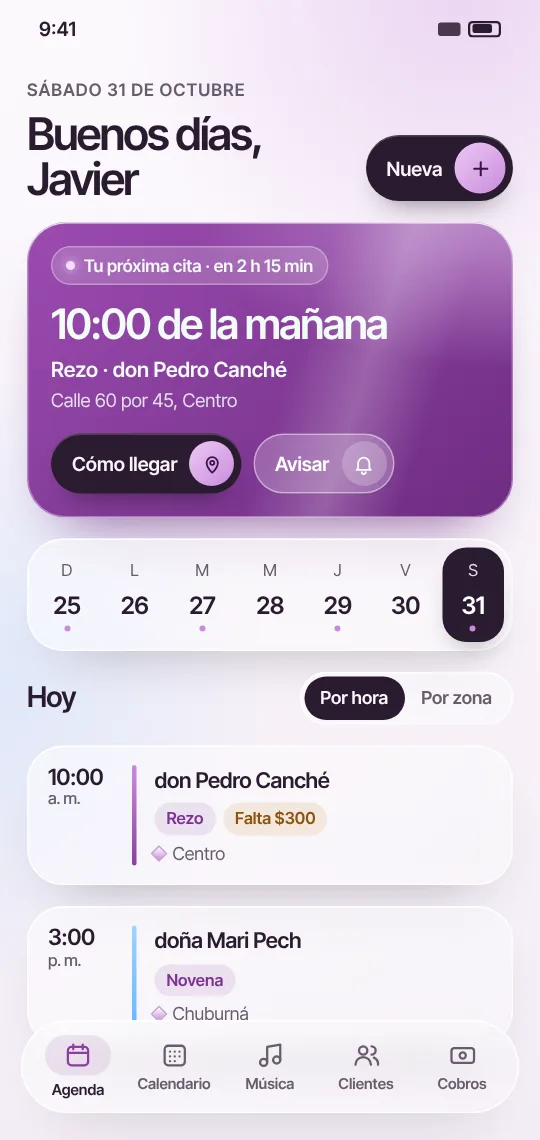
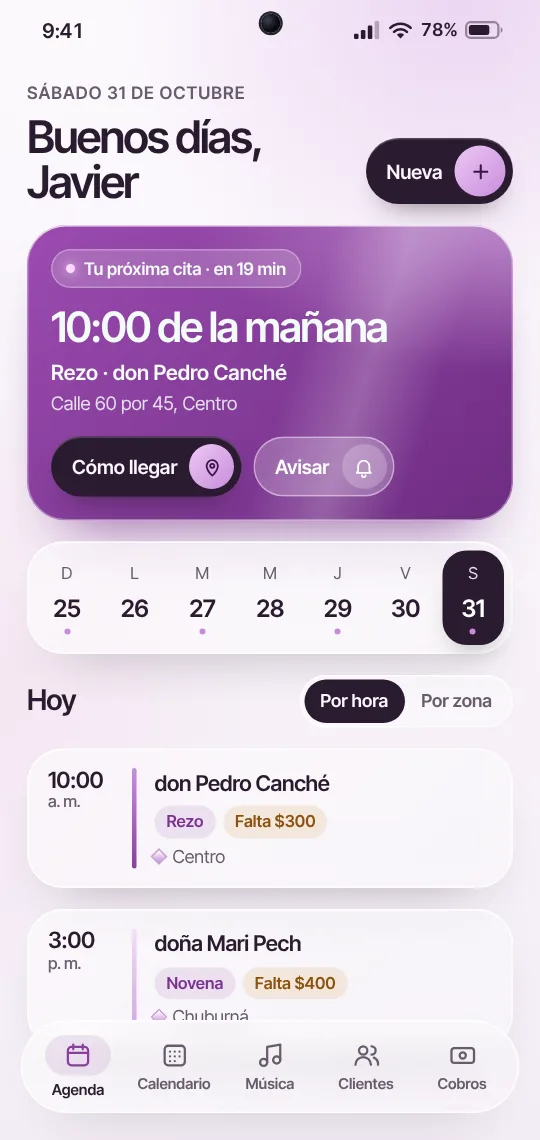
Mis citas: barra de estado real, colores solo de la paleta y datos que cuadran
Claude-Session: https://claude.ai/code/session_01Kc7UqCn6E9o6Li3sPnE4yz

diff --git a/diseno/capturas/mis-citas.html b/diseno/capturas/mis-citas.html
@@ -26,14 +26,15 @@
   *{box-sizing:border-box;margin:0}
   html,body{width:360px;height:760px;overflow:hidden}
   body{font:400 14px/1.4 "Inter Tight",system-ui,sans-serif;color:var(--tinta);-webkit-font-smoothing:antialiased;
-    background:radial-gradient(90% 40% at 85% 0%,rgba(201,139,220,.32),transparent 70%),radial-gradient(70% 40% at 0% 60%,rgba(100,182,255,.16),transparent 70%),linear-gradient(180deg,var(--fondo2),var(--fondo))}
-  .oscuro body,body.oscuro{background:radial-gradient(90% 40% at 85% 0%,rgba(138,63,158,.38),transparent 70%),radial-gradient(70% 40% at 0% 70%,rgba(100,182,255,.1),transparent 70%),linear-gradient(180deg,var(--fondo2),var(--fondo))}
+    background:radial-gradient(90% 40% at 85% 0%,rgba(201,139,220,.32),transparent 70%),radial-gradient(70% 40% at 0% 60%,rgba(236,172,206,.16),transparent 70%),linear-gradient(180deg,var(--fondo2),var(--fondo))}
+  .oscuro body,body.oscuro{background:radial-gradient(90% 40% at 85% 0%,rgba(138,63,158,.38),transparent 70%),radial-gradient(70% 40% at 0% 70%,rgba(236,172,206,.1),transparent 70%),linear-gradient(180deg,var(--fondo2),var(--fondo))}
   .pantalla{position:relative;height:760px;padding:0 18px;display:flex;flex-direction:column;gap:14px}
-  .estado{display:flex;justify-content:space-between;align-items:center;height:38px;padding:0 8px;font-weight:600;font-size:13px}
-  .estado i{display:inline-flex;gap:5px;align-items:center}
-  .estado i b{display:block;width:15px;height:9px;border-radius:2px;background:currentColor;opacity:.85}
-  .estado i s{display:block;width:22px;height:11px;border-radius:3px;box-shadow:inset 0 0 0 1.5px currentColor;position:relative}
-  .estado i s::after{content:"";position:absolute;inset:2.5px 6px 2.5px 2.5px;border-radius:1.5px;background:currentColor}
+  /* barra de estado como la de un teléfono real: hora, cámara frontal al centro, señal, wifi y batería con su nivel */
+  .estado{position:relative;display:flex;justify-content:space-between;align-items:center;height:40px;padding:0 6px 0 10px;font-weight:600;font-size:13.5px;letter-spacing:-.01em;font-variant-numeric:tabular-nums}
+  .estado .camara{position:absolute;left:50%;top:9px;width:13px;height:13px;margin-left:-6.5px;border-radius:50%;background:radial-gradient(circle at 35% 35%,#3a3f55 0,#0b0c10 55%);box-shadow:0 0 0 1.5px rgba(0,0,0,.85)}
+  .estado .iconos{display:inline-flex;align-items:center;gap:6px}
+  .estado svg{display:block;height:12px;width:auto}
+  .estado .pct{font-size:12px;font-weight:600;margin-right:-1px}
   .vidrio{background:linear-gradient(135deg,var(--vidrio),var(--vidrio2));border-radius:24px;
     box-shadow:inset 0 0 0 1px var(--linea),inset 0 1px 0 rgba(255,255,255,.6),var(--sombra);-webkit-backdrop-filter:blur(10px);backdrop-filter:blur(10px)}
   .oscuro .vidrio{box-shadow:inset 0 0 0 1px var(--linea),inset 0 1px 0 rgba(255,255,255,.08),var(--sombra)}
@@ -73,7 +74,7 @@
   .cita .h{width:44px;flex:none;font-weight:600;font-size:15px;letter-spacing:-.02em;line-height:1.1}
   .cita .h small{display:block;font-weight:500;font-size:11px;color:var(--suave)}
   .cita .barra{width:3px;align-self:stretch;border-radius:3px;background:linear-gradient(180deg,var(--esmeralda2),var(--esmeralda))}
-  .cita .barra.az{background:linear-gradient(180deg,#9fd3ff,#64b6ff)}
+  .cita .barra.az{background:linear-gradient(180deg,#f1dcf8,#d4a3e4)}
   .cita b{display:block;font-weight:600;font-size:14.5px;letter-spacing:-.015em}
   .chips{display:flex;gap:5px;margin:5px 0 4px}
   .chip{font-size:11px;font-weight:600;padding:3px 8px;border-radius:999px;background:var(--chip);color:var(--chip-t)}
@@ -132,7 +133,13 @@
     reloj:'<circle cx="12" cy="12" r="8.5"/><path d="M12 7.5V12l3 2"/>', flecha:'<path d="M5 12h14M13 6l6 6-6 6"/>'
   };
   const ic = (n, w = 1.9) => `<svg viewBox="0 0 24 24" fill="none" stroke="currentColor" stroke-width="${w}" stroke-linecap="round" stroke-linejoin="round">${I[n]}</svg>`;
-  const estado = `<div class="estado"><span>9:41</span><i><b></b><s></s></i></div>`;
+  const hora = p === 'oscuro' ? '5:10' : '9:41';   // la hora cuadra con "tu próxima cita en..."
+  const estado = `<div class="estado"><span>${hora}</span><span class="camara" aria-hidden="true"></span><span class="iconos">
+    <svg viewBox="0 0 17 12" aria-hidden="true"><rect x="0" y="8.5" width="3" height="3.5" rx=".8" fill="currentColor"/><rect x="4.6" y="6" width="3" height="6" rx=".8" fill="currentColor"/><rect x="9.2" y="3" width="3" height="9" rx=".8" fill="currentColor"/><rect x="13.8" y="0" width="3" height="12" rx=".8" fill="currentColor" opacity=".3"/></svg>
+    <svg viewBox="0 0 16 12" aria-hidden="true"><path d="M8 11.6 5.6 9.2a3.4 3.4 0 0 1 4.8 0z" fill="currentColor"/><path d="M3.7 7.3a6.1 6.1 0 0 1 8.6 0" fill="none" stroke="currentColor" stroke-width="1.7" stroke-linecap="round"/><path d="M1.2 4.6a9.6 9.6 0 0 1 13.6 0" fill="none" stroke="currentColor" stroke-width="1.7" stroke-linecap="round"/></svg>
+    <span class="pct">78%</span>
+    <svg viewBox="0 0 26 12" aria-hidden="true"><rect x=".75" y=".75" width="21.5" height="10.5" rx="3" fill="none" stroke="currentColor" stroke-width="1.5" opacity=".45"/><rect x="2.6" y="2.6" width="13.6" height="6.8" rx="1.6" fill="currentColor"/><path d="M23.8 4.2v3.6a1.9 1.9 0 0 0 0-3.6z" fill="currentColor" opacity=".45"/></svg>
+  </span></div>`;
   const menu = `<nav class="menu vidrio">${[['agenda','Agenda',1],['cal','Calendario'],['nota','Música'],['gente','Clientes'],['cobro','Cobros']].map(([i,t,s])=>`<span class="${s?'si':''}">${ic(i)}${t}</span>`).join('')}</nav>`;
   const semana = (hoy) => `<div class="semana vidrio">${[['D',25],['L',26],['M',27],['M',28],['J',29],['V',30],['S',31]].map(([d,n],k)=>`<div class="dia ${n===hoy?'hoy':''}">${d}<b>${n}</b>${[0,2,4,6].includes(k)?'<i></i>':'<i style="opacity:0"></i>'}</div>`).join('')}</div>`;
   const cita = (h, m, quien, chips, lugar, az) => `<div class="cita vidrio"><div class="h">${h}<small>${m}</small></div><div class="barra ${az?'az':''}"></div><div><b>${quien}</b><div class="chips">${chips}</div><div class="lugar">${lugar}</div></div></div>`;
@@ -151,7 +158,7 @@
     html = `${estado}
     <div class="arriba" style="align-items:flex-end"><div><div class="ceja">${oscuro ? 'Jueves 29 de octubre' : 'Sábado 31 de octubre'}</div><h1 style="margin-top:6px">${oscuro ? 'Buenas tardes,<br>Javier' : 'Buenos días,<br>Javier'}</h1></div>
       <span class="pildora principal" style="height:44px">Nueva<span class="circ" style="width:34px;height:34px">${ic('mas',2.2)}</span></span></div>
-    <div class="proxima"><span class="cuenta">${oscuro ? 'Tu próxima cita · en 1 h 20 min' : 'Tu próxima cita · en 2 h 15 min'}</span>
+    <div class="proxima"><span class="cuenta">${oscuro ? 'Tu próxima cita · en 1 h 20 min' : 'Tu próxima cita · en 19 min'}</span>
       <div class="hora">${oscuro ? '6:30 de la tarde' : '10:00 de la mañana'}</div>
       <div class="quien">${oscuro ? 'Boda · familia Pech Uc' : 'Rezo · don Pedro Canché'}</div><div class="donde">${oscuro ? 'Hacienda Xcanatún, carretera a Progreso' : 'Calle 60 por 45, Centro'}</div>
       <div class="fila"><span class="pildora principal">Cómo llegar<span class="circ">${ic('ruta')}</span></span><span class="pildora cristal">Avisar<span class="circ">${ic('campana')}</span></span></div></div>
@@ -159,7 +166,7 @@
     <div class="titulo-lista"><h2>${oscuro ? 'Jueves' : 'Hoy'}</h2><div class="seg vidrio"><span class="si">Por hora</span><span>Por zona</span></div></div>
     ${oscuro
       ? cita('6:30','p. m.','familia Pech Uc','<span class="chip">Boda</span><span class="chip debe">Falta $1,500</span>','Xcanatún') + cita('9:00','p. m.','Karla Euán','<span class="chip">XV años</span>','García Ginerés', true)
-      : cita('10:00','a. m.','don Pedro Canché','<span class="chip">Rezo</span><span class="chip debe">Falta $300</span>','Centro') + cita('3:00','p. m.','doña Mari Pech','<span class="chip">Novena</span>','Chuburná', true)}
+      : cita('10:00','a. m.','don Pedro Canché','<span class="chip">Rezo</span><span class="chip debe">Falta $300</span>','Centro') + cita('3:00','p. m.','doña Mari Pech','<span class="chip">Novena</span><span class="chip debe">Falta $400</span>','Chuburná', true)}
     ${menu}`;
   }
   document.body.innerHTML = `<div class="pantalla">${html}</div>`;

diff --git a/diseno/DECISIONES.md b/diseno/DECISIONES.md
@@ -84,3 +84,7 @@ Para verla en local: `cd diseno/muestra && python3 -m http.server` (usa módulos
   lo que hacían: guiso del día, cuenta de la barbería, cita armada para WhatsApp. Capturas nuevas en img/modelo-*.webp.
 - **Regla (31/10): la paleta de colores siempre la escoge Javi.** Antes de usar colores nuevos, enseñarle varias
   opciones (página de muestras) y preguntarle con botones. Muestras de esta vuelta: https://claude.ai/artifact/CSyFZQUVWcjZgxcTtbbyDD
+- **Regla (31/10): perfeccionismo, todos los detalles cuentan.** Javi notó la batería falsa del teléfono. Antes de
+  entregar, revisar con lupa: íconos reales (barra de estado con señal, wifi, batería con nivel y cámara), colores
+  solo de la paleta escogida, y que los datos cuadren entre sí (la hora del reloj con "tu próxima cita en...", lo que
+  falta cobrar en la lista y en el detalle, saludo según la hora).
